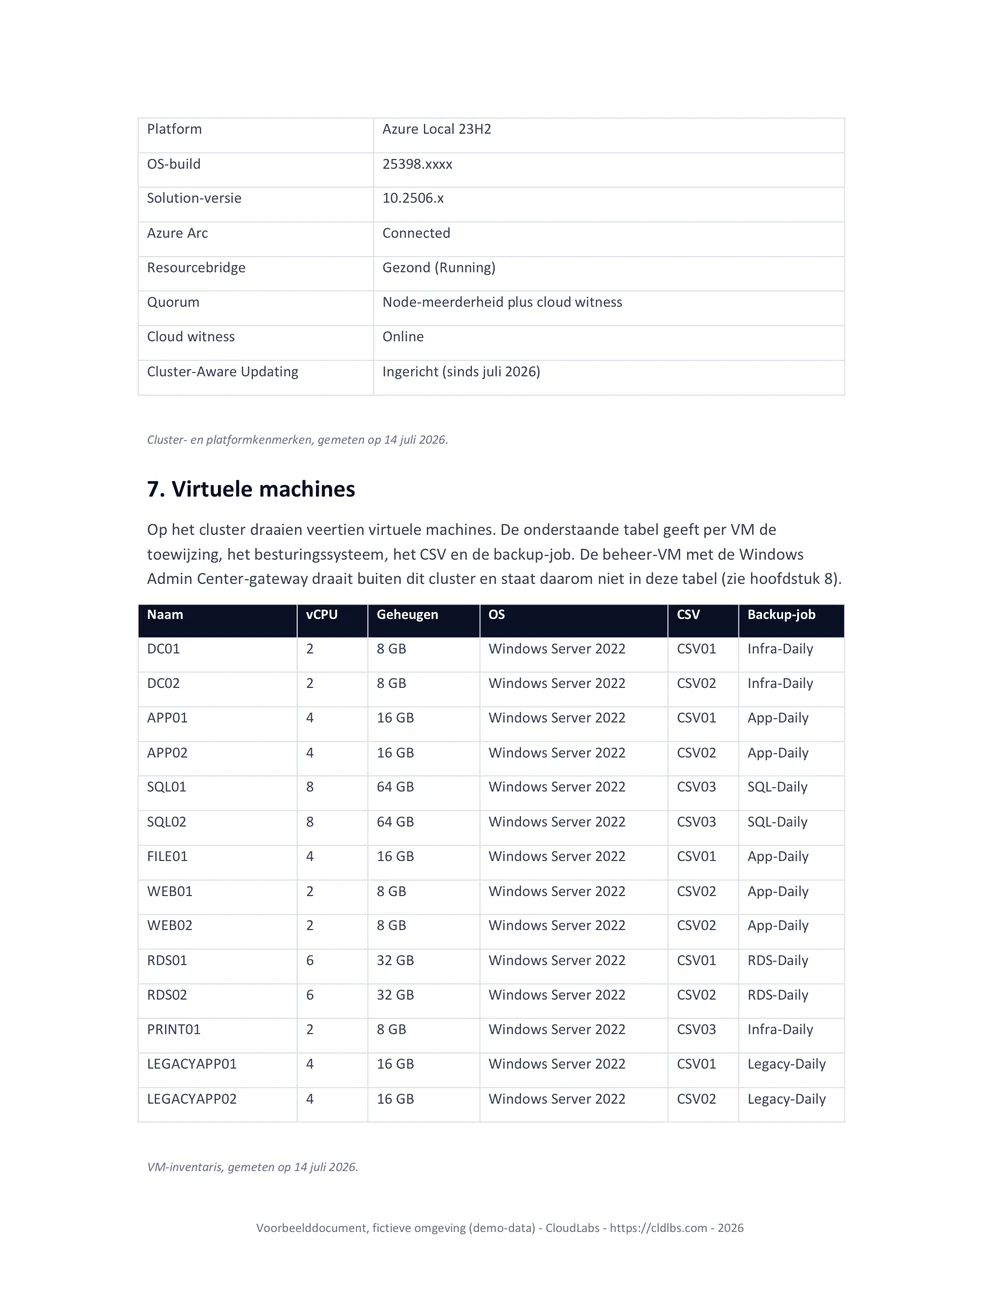
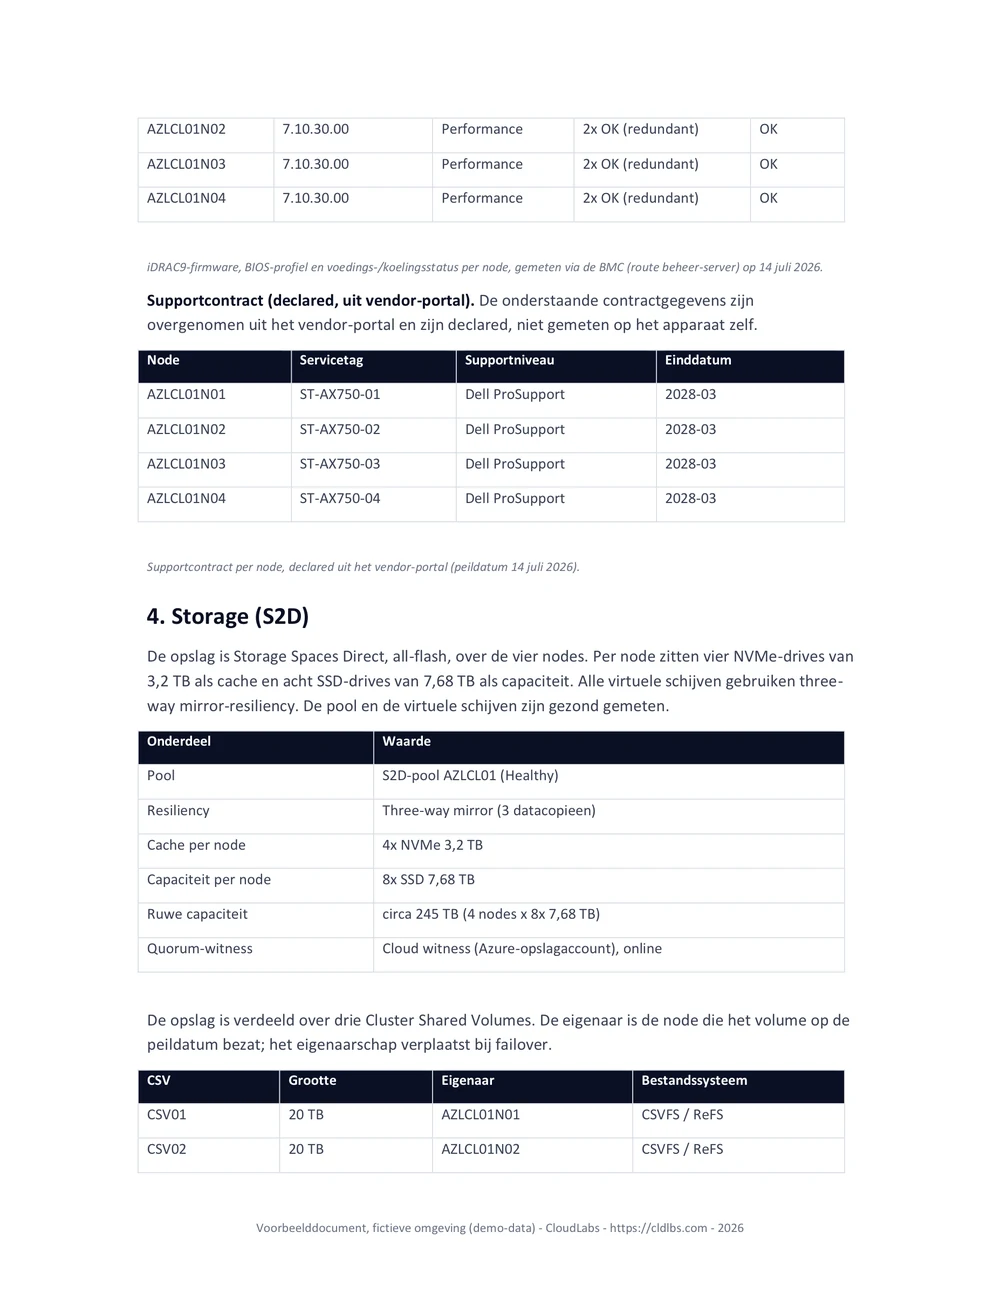
partners: balanced trend-chart row (text + larger chart, caption 3 via 1 to 0), representative As-Built page (v0.3.5)

diff --git a/partners.html b/partners.html
@@ -1,5 +1,5 @@
 <!doctype html>
-<!-- CloudLabs · v0.3.4 · Partners -->
+<!-- CloudLabs · v0.3.5 · Partners -->
 <html lang="en" data-lang="en">
 <head>
 <meta charset="utf-8">
@@ -258,15 +258,19 @@
         <h3 class="doc">Remaining risks with progress chart</h3>
         <p>
           The open risks that still need attention, with a trend chart showing the progression
-          across measurements. Tangible proof of work done, in a form a customer can put in front
-          of management, an auditor or a cyber insurer.
+          across measurements. The left panel shows the distribution per measurement, the right
+          panel the trend per risk level: in the sample engagement HIGH falls from 3 via 1 to 0
+          across three measurements, while the resolved count climbs to 12. Every finding on that
+          green line was verified by measurement, not by reported status. Tangible proof of work
+          done, in a form a customer can put in front of management, an auditor or a cyber
+          insurer.
         </p>
       </div>
-      <figure class="shot anim-fade anim-up">
+      <figure class="shot anim-fade anim-up" style="max-width:480px">
         <a href="images/noorderlicht-risk-trend.png" target="_blank" rel="noopener">
           <img src="images/noorderlicht-risk-trend.png" alt="Risk trend chart across three measurements: HIGH falls from 3 to 1 to 0, MEDIUM from 11 to 10 to 5, while resolved findings climb from 0 to 5 to 12." loading="lazy" width="1300" height="690">
         </a>
-        <figcaption>Progress chart · three measurements · HIGH from 3 to 0</figcaption>
+        <figcaption>Progress chart · three measurements · HIGH from 3 via 1 to 0</figcaption>
       </figure>
     </div>
 
@@ -282,7 +286,7 @@
       </div>
       <figure class="shot anim-fade anim-up">
         <a href="images/toolchain-asbuilt-inventory.webp" target="_blank" rel="noopener">
-          <img src="images/toolchain-asbuilt-inventory.webp" alt="As-Built documentation page with hardware and virtual machine inventory tables generated from the measurement." loading="lazy" width="1000" height="1294">
+          <img src="images/toolchain-asbuilt-inventory.webp" alt="As-Built documentation page: the Storage Spaces Direct chapter with prose and inventory tables for firmware, support contracts, pool, resiliency and Cluster Shared Volumes." loading="lazy" width="1000" height="1294">
         </a>
         <figcaption>As-Built · inventory chapters, generated from the run</figcaption>
       </figure>
@@ -456,7 +460,7 @@
     <a href="mailto:hans.vredevoort@cldlbs.com">hans.vredevoort@cldlbs.com</a>
     <a href="book.html" lang="en">Book</a><a href="book.html" lang="nl">Boek</a>
     <a href="privacy.html" lang="en">Privacy</a><a href="privacy.html" lang="nl">Privacy</a>
-    <span class="brand-version">v0.3.4</span>
+    <span class="brand-version">v0.3.5</span>
   </footer>
 
 </div>
